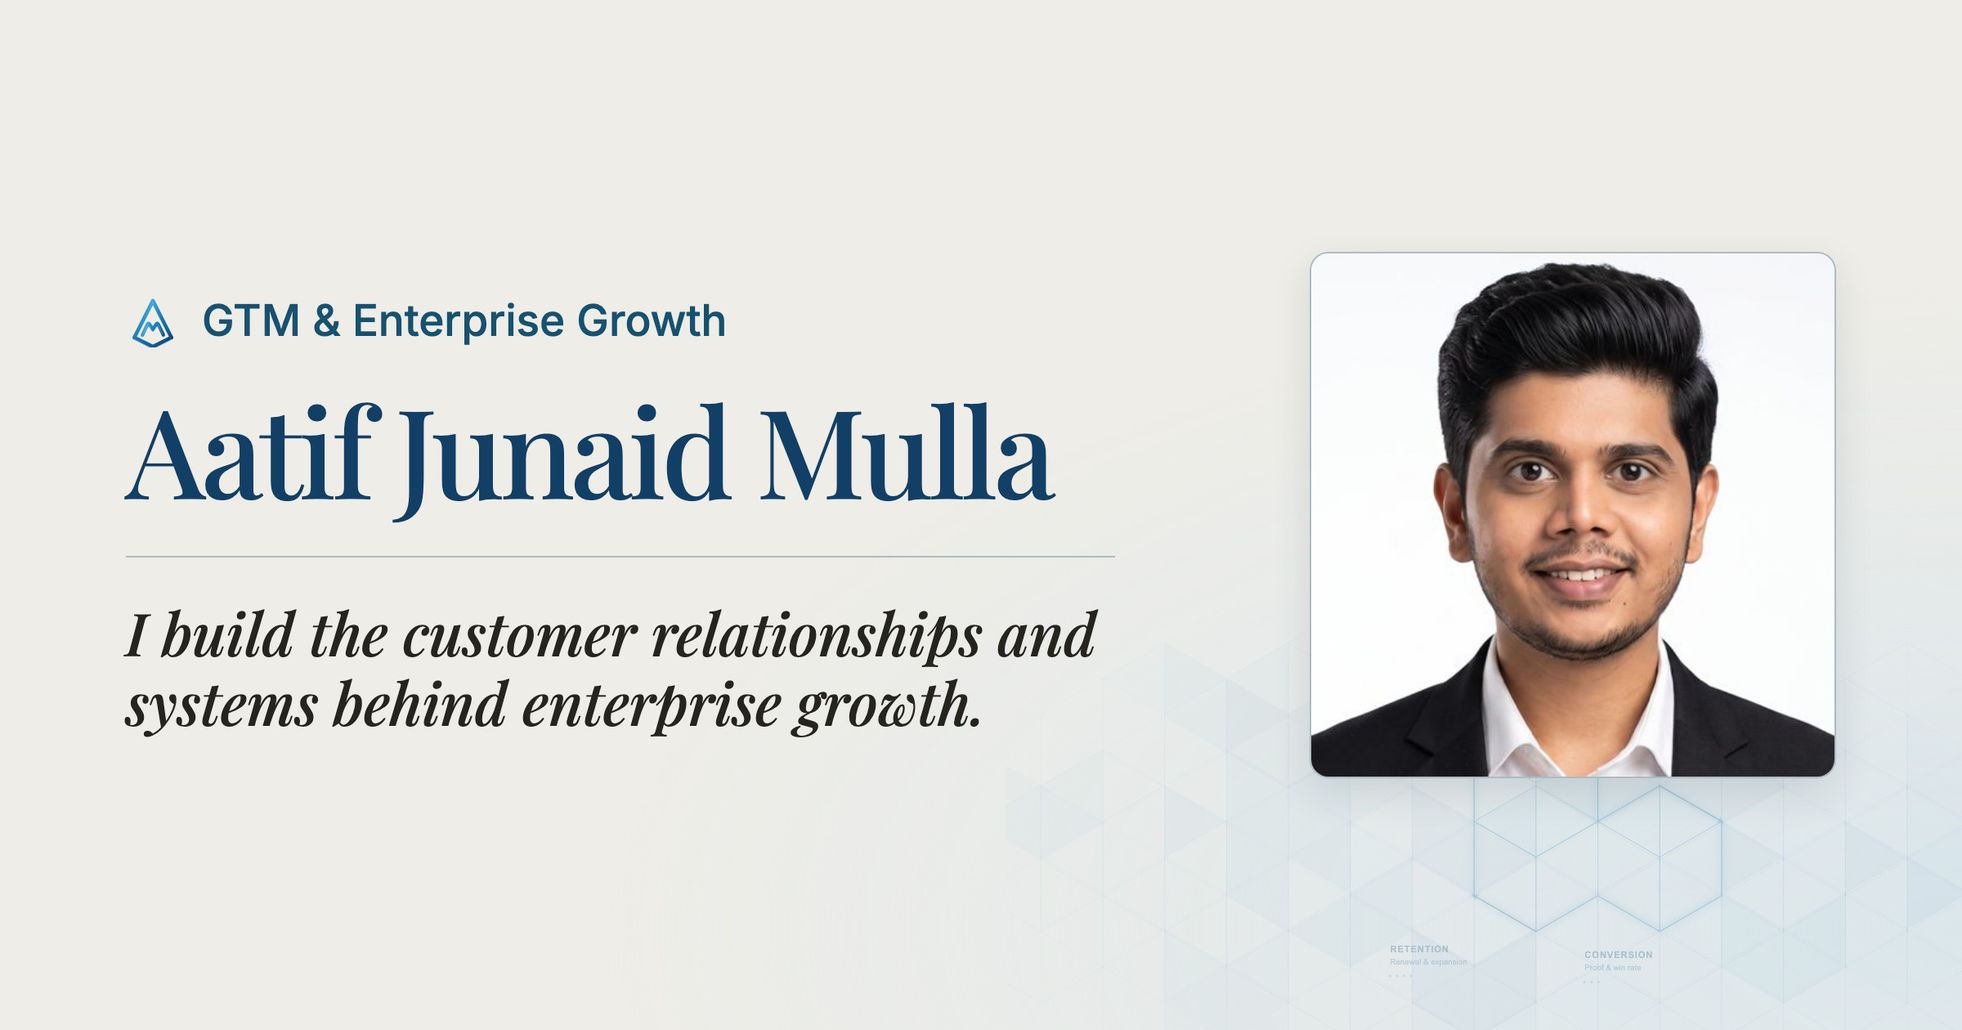
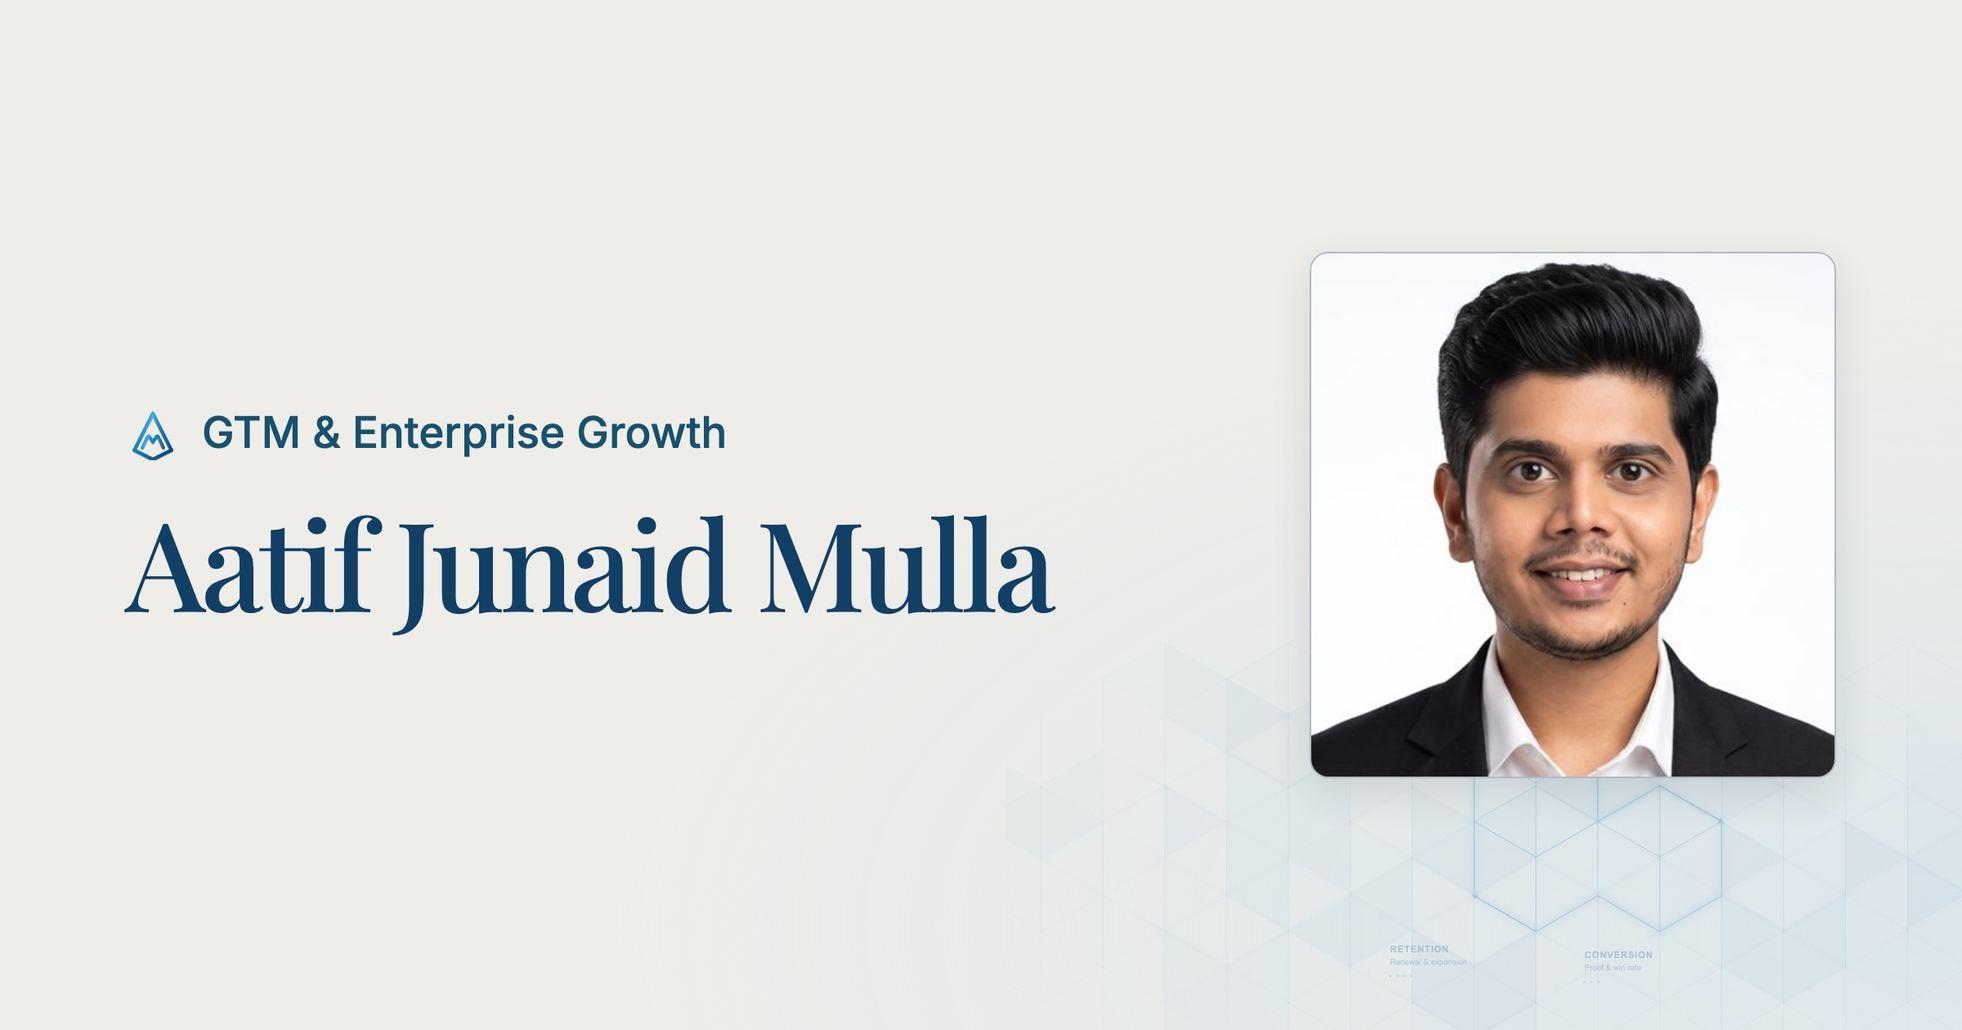
Shorten the homepage introduction (#195)

Changed region(s): [[0.0625, 0.3714, 0.5625, 0.7119], [0.0625, 0.2786, 0.375, 0.3405]]

diff --git a/index.html b/index.html
@@ -11,7 +11,7 @@
   <meta property="og:url" content="https://aatifmulla.me/" />
   <meta property="og:title" content="Aatif Junaid Mulla | GTM, Enterprise Growth &amp; Revenue Operations" />
   <meta property="og:description" content="Enterprise GTM, customer discovery, revenue operations, and AI workflows. Explore Aatif Junaid Mulla&rsquo;s experience and selected work." />
-  <meta property="og:image" content="https://aatifmulla.me/og-image.jpg?v=12" />
+  <meta property="og:image" content="https://aatifmulla.me/og-image.jpg?v=13" />
   <meta property="og:image:type" content="image/jpeg" />
   <meta property="og:image:width" content="2400" />
   <meta property="og:image:height" content="1260" />
@@ -20,7 +20,7 @@
   <meta name="twitter:card" content="summary_large_image" />
   <meta name="twitter:title" content="Aatif Junaid Mulla | GTM, Enterprise Growth &amp; Revenue Operations" />
   <meta name="twitter:description" content="Enterprise GTM, customer discovery, revenue operations, and AI workflows. Explore Aatif Junaid Mulla&rsquo;s experience and selected work." />
-  <meta name="twitter:image" content="https://aatifmulla.me/og-image.jpg?v=12" />
+  <meta name="twitter:image" content="https://aatifmulla.me/og-image.jpg?v=13" />
 
   <meta name="theme-color" content="#EEEDE8" />
   <link rel="canonical" href="https://aatifmulla.me/" />
@@ -71,7 +71,7 @@
   <link rel="dns-prefetch" href="https://static.cloudflareinsights.com" />
   <link rel="preload" href="/assets/fonts/inter.woff2" as="font" type="font/woff2" crossorigin />
   <link rel="preload" href="/assets/fonts/playfair.woff2" as="font" type="font/woff2" crossorigin />
-  <link rel="stylesheet" href="assets/css/site.css?v=108" />
+  <link rel="stylesheet" href="assets/css/site.css?v=109" />
   <!-- Without JS the reveal observer never runs, so make sure nothing stays invisible. -->
   <noscript><style>.reveal { opacity: 1 !important; transform: none !important; }</style></noscript>
   <!-- Google Preferred Sources: renders the "add as preferred source" button in the footer. -->
@@ -106,16 +106,14 @@
   <main id="top" tabindex="-1">
 
     <section class="hero hero--profile" aria-labelledby="hero-headline">
-      <div class="hero__identity">
-        <p class="hero__person" id="hero-name">Aatif Junaid Mulla</p>
+      <div class="hero__identity" id="hero-name">
+        <h1 class="hero__headline" id="hero-headline">Aatif Junaid Mulla</h1>
         <p class="hero__label">GTM &amp; Enterprise Growth</p>
       </div>
       <div class="hero__comet-start" aria-hidden="true"></div>
 
       <div class="hero__copy">
-        <h1 class="hero__headline" id="hero-headline">I build the customer relationships and systems behind enterprise growth.</h1>
-        <p class="hero__summary">My experience spans enterprise technology sales, revenue operations, and building a US enterprise GTM motion. I work across customer discovery, pipeline development, and the workflows that keep opportunities moving.</p>
-        <p class="hero__proof-line">Co-built a 13-member design partner program and helped land the first signed enterprise deal with Splunk, a Cisco company, alongside the founder.</p>
+        <p class="hero__proof-line">Co-built a 13-member design partner program and helped the founder land Aisepedia&rsquo;s first enterprise deal with Splunk.</p>
         <div class="hero__actions">
           <div class="hero__profile-links">
             <a class="btn btn--hero-profile btn--primary" href="#more">Explore my work</a>

diff --git a/gtm-systems.html b/gtm-systems.html
@@ -11,7 +11,7 @@
   <meta property="og:url" content="https://aatifmulla.me/gtm-systems.html" />
   <meta property="og:title" content="GTM Workflows: Research, Drafting and Human Review | Aatif Junaid Mulla" />
   <meta property="og:description" content="Explore an n8n portfolio demonstration for market research, Claude drafting, and human review, plus separate lifecycle work at Aiseberg." />
-  <meta property="og:image" content="https://aatifmulla.me/og-image.jpg?v=12" />
+  <meta property="og:image" content="https://aatifmulla.me/og-image.jpg?v=13" />
   <meta property="og:image:type" content="image/jpeg" />
   <meta property="og:image:width" content="2400" />
   <meta property="og:image:height" content="1260" />
@@ -20,7 +20,7 @@
   <meta name="twitter:card" content="summary_large_image" />
   <meta name="twitter:title" content="GTM Workflows: Research, Drafting and Human Review | Aatif Junaid Mulla" />
   <meta name="twitter:description" content="Explore an n8n portfolio demonstration for market research, Claude drafting, and human review, plus separate lifecycle work at Aiseberg." />
-  <meta name="twitter:image" content="https://aatifmulla.me/og-image.jpg?v=12" />
+  <meta name="twitter:image" content="https://aatifmulla.me/og-image.jpg?v=13" />
 
   <meta name="theme-color" content="#EEEDE8" />
   <link rel="canonical" href="https://aatifmulla.me/gtm-systems.html" />
@@ -33,7 +33,7 @@
   <link rel="apple-touch-icon" sizes="180x180" href="/apple-touch-icon.png?v=4" />
   <link rel="preload" href="/assets/fonts/inter.woff2" as="font" type="font/woff2" crossorigin />
   <link rel="preload" href="/assets/fonts/playfair.woff2" as="font" type="font/woff2" crossorigin />
-  <link rel="stylesheet" href="assets/css/site.css?v=108" />
+  <link rel="stylesheet" href="assets/css/site.css?v=109" />
 
   <!-- Structured data: a public article authored by the same Person entity -->
   <script type="application/ld+json">
@@ -44,7 +44,7 @@
     "url": "https://aatifmulla.me/gtm-systems.html",
     "datePublished": "2026-09-01T09:00:00-07:00",
     "dateModified": "2026-11-21T14:11:53+00:00",
-    "image": "https://aatifmulla.me/og-image.jpg?v=12",
+    "image": "https://aatifmulla.me/og-image.jpg?v=13",
     "author": {
       "@type": "Person",
       "@id": "https://aatifmulla.me/#person",

diff --git a/field-program.html b/field-program.html
@@ -11,7 +11,7 @@
   <meta property="og:url" content="https://aatifmulla.me/field-program.html" />
   <meta property="og:title" content="Building an Enterprise Field Program in San Francisco | Aatif Junaid Mulla" />
   <meta property="og:description" content="How Aatif Junaid Mulla organized PMM 2.0, a San Francisco field program that drew 36 senior practitioners without paid promotion." />
-  <meta property="og:image" content="https://aatifmulla.me/og-image.jpg?v=12" />
+  <meta property="og:image" content="https://aatifmulla.me/og-image.jpg?v=13" />
   <meta property="og:image:type" content="image/jpeg" />
   <meta property="og:image:width" content="2400" />
   <meta property="og:image:height" content="1260" />
@@ -20,7 +20,7 @@
   <meta name="twitter:card" content="summary_large_image" />
   <meta name="twitter:title" content="Building an Enterprise Field Program in San Francisco | Aatif Junaid Mulla" />
   <meta name="twitter:description" content="How Aatif Junaid Mulla organized PMM 2.0, a San Francisco field program that drew 36 senior practitioners without paid promotion." />
-  <meta name="twitter:image" content="https://aatifmulla.me/og-image.jpg?v=12" />
+  <meta name="twitter:image" content="https://aatifmulla.me/og-image.jpg?v=13" />
 
   <meta name="theme-color" content="#EEEDE8" />
   <link rel="canonical" href="https://aatifmulla.me/field-program.html" />
@@ -33,7 +33,7 @@
   <link rel="apple-touch-icon" sizes="180x180" href="/apple-touch-icon.png?v=4" />
   <link rel="preload" href="/assets/fonts/inter.woff2" as="font" type="font/woff2" crossorigin />
   <link rel="preload" href="/assets/fonts/playfair.woff2" as="font" type="font/woff2" crossorigin />
-  <link rel="stylesheet" href="assets/css/site.css?v=108" />
+  <link rel="stylesheet" href="assets/css/site.css?v=109" />
 
   <!-- Structured data: an article authored by the same Person entity -->
   <script type="application/ld+json">
@@ -44,7 +44,7 @@
     "url": "https://aatifmulla.me/field-program.html",
     "datePublished": "2026-08-20T23:40:15-07:00",
     "dateModified": "2026-11-21T14:11:53+00:00",
-    "image": "https://aatifmulla.me/og-image.jpg?v=12",
+    "image": "https://aatifmulla.me/og-image.jpg?v=13",
     "author": {
       "@type": "Person",
       "@id": "https://aatifmulla.me/#person",

diff --git a/playbook.html b/playbook.html
@@ -11,7 +11,7 @@
   <meta property="og:url" content="https://aatifmulla.me/playbook.html" />
   <meta property="og:title" content="Enterprise GTM: Selected Work | Aatif Junaid Mulla" />
   <meta property="og:description" content="Five case studies in enterprise GTM, customer discovery, lifecycle work, and revenue operations by Aatif Junaid Mulla." />
-  <meta property="og:image" content="https://aatifmulla.me/og-image.jpg?v=12" />
+  <meta property="og:image" content="https://aatifmulla.me/og-image.jpg?v=13" />
   <meta property="og:image:type" content="image/jpeg" />
   <meta property="og:image:width" content="2400" />
   <meta property="og:image:height" content="1260" />
@@ -20,7 +20,7 @@
   <meta name="twitter:card" content="summary_large_image" />
   <meta name="twitter:title" content="Enterprise GTM: Selected Work | Aatif Junaid Mulla" />
   <meta name="twitter:description" content="Five case studies in enterprise GTM, customer discovery, lifecycle work, and revenue operations by Aatif Junaid Mulla." />
-  <meta name="twitter:image" content="https://aatifmulla.me/og-image.jpg?v=12" />
+  <meta name="twitter:image" content="https://aatifmulla.me/og-image.jpg?v=13" />
 
   <meta name="theme-color" content="#EEEDE8" />
   <link rel="canonical" href="https://aatifmulla.me/playbook.html" />
@@ -33,7 +33,7 @@
   <link rel="apple-touch-icon" sizes="180x180" href="/apple-touch-icon.png?v=4" />
   <link rel="preload" href="/assets/fonts/inter.woff2" as="font" type="font/woff2" crossorigin />
   <link rel="preload" href="/assets/fonts/playfair.woff2" as="font" type="font/woff2" crossorigin />
-  <link rel="stylesheet" href="assets/css/site.css?v=108" />
+  <link rel="stylesheet" href="assets/css/site.css?v=109" />
 
   <!-- Structured data: ties this page back to the same Person entity -->
   <script type="application/ld+json">

diff --git a/privacy.html b/privacy.html
@@ -12,7 +12,7 @@
   <meta property="og:url" content="https://aatifmulla.me/privacy.html" />
   <meta property="og:title" content="Privacy policy | Aatif Junaid Mulla" />
   <meta property="og:description" content="How Aatif Junaid Mulla's personal portfolio handles hosting information, contact messages, and analytics." />
-  <meta property="og:image" content="https://aatifmulla.me/og-image.jpg?v=12" />
+  <meta property="og:image" content="https://aatifmulla.me/og-image.jpg?v=13" />
   <meta property="og:image:type" content="image/jpeg" />
   <meta property="og:image:width" content="2400" />
   <meta property="og:image:height" content="1260" />
@@ -21,7 +21,7 @@
   <meta name="twitter:card" content="summary_large_image" />
   <meta name="twitter:title" content="Privacy policy | Aatif Junaid Mulla" />
   <meta name="twitter:description" content="How Aatif Junaid Mulla's personal portfolio handles hosting information, contact messages, and analytics." />
-  <meta name="twitter:image" content="https://aatifmulla.me/og-image.jpg?v=12" />
+  <meta name="twitter:image" content="https://aatifmulla.me/og-image.jpg?v=13" />
   <meta name="theme-color" content="#EEEDE8" />
   <link rel="canonical" href="https://aatifmulla.me/privacy.html" />
   <meta name="referrer" content="strict-origin-when-cross-origin" />
@@ -33,7 +33,7 @@
   <link rel="apple-touch-icon" sizes="180x180" href="/apple-touch-icon.png?v=4" />
   <link rel="preload" href="/assets/fonts/inter.woff2" as="font" type="font/woff2" crossorigin />
   <link rel="preload" href="/assets/fonts/playfair.woff2" as="font" type="font/woff2" crossorigin />
-  <link rel="stylesheet" href="/assets/css/site.css?v=108" />
+  <link rel="stylesheet" href="/assets/css/site.css?v=109" />
 </head>
 <body>
   <a class="skip-link" href="#top">Skip to content</a>

diff --git a/accessibility.html b/accessibility.html
@@ -12,7 +12,7 @@
   <meta property="og:url" content="https://aatifmulla.me/accessibility.html" />
   <meta property="og:title" content="Accessibility | Aatif Junaid Mulla" />
   <meta property="og:description" content="Accessibility features and feedback for Aatif Junaid Mulla's personal portfolio." />
-  <meta property="og:image" content="https://aatifmulla.me/og-image.jpg?v=12" />
+  <meta property="og:image" content="https://aatifmulla.me/og-image.jpg?v=13" />
   <meta property="og:image:type" content="image/jpeg" />
   <meta property="og:image:width" content="2400" />
   <meta property="og:image:height" content="1260" />
@@ -21,7 +21,7 @@
   <meta name="twitter:card" content="summary_large_image" />
   <meta name="twitter:title" content="Accessibility | Aatif Junaid Mulla" />
   <meta name="twitter:description" content="Accessibility features and feedback for Aatif Junaid Mulla's personal portfolio." />
-  <meta name="twitter:image" content="https://aatifmulla.me/og-image.jpg?v=12" />
+  <meta name="twitter:image" content="https://aatifmulla.me/og-image.jpg?v=13" />
   <meta name="theme-color" content="#EEEDE8" />
   <link rel="canonical" href="https://aatifmulla.me/accessibility.html" />
   <meta name="referrer" content="strict-origin-when-cross-origin" />
@@ -33,7 +33,7 @@
   <link rel="apple-touch-icon" sizes="180x180" href="/apple-touch-icon.png?v=4" />
   <link rel="preload" href="/assets/fonts/inter.woff2" as="font" type="font/woff2" crossorigin />
   <link rel="preload" href="/assets/fonts/playfair.woff2" as="font" type="font/woff2" crossorigin />
-  <link rel="stylesheet" href="/assets/css/site.css?v=108" />
+  <link rel="stylesheet" href="/assets/css/site.css?v=109" />
 </head>
 <body>
   <a class="skip-link" href="#top">Skip to content</a>

diff --git a/assets/css/site.css b/assets/css/site.css
@@ -1520,7 +1520,7 @@ a.tool-chip:hover { border-color: var(--blue); color: var(--blue-deep); }
 /* Homepage introduction */
 .hero--profile {
   max-width: var(--maxw);
-  min-height: min(64svh, 40rem);
+  min-height: min(51svh, 31rem);
   grid-template-columns: minmax(0, 1fr) clamp(12rem, 24vw, 21rem);
   gap: var(--space-6) clamp(1.5rem, 5vw, 4.5rem);
   padding: clamp(2.5rem, 5vw, 4.5rem) var(--gutter) var(--space-8);
@@ -1534,13 +1534,6 @@ a.tool-chip:hover { border-color: var(--blue); color: var(--blue-deep); }
   height: 0;
 }
 .hero--profile > .hero__geometry { opacity: 0.85; }
-.hero__person {
-  color: var(--blue-deep);
-  font-family: var(--serif);
-  font-size: var(--text-24);
-  font-weight: 500;
-  line-height: 1.2;
-}
 .hero__label { margin-top: 0.35rem; color: var(--ink-soft); font-weight: 500; }
 .hero__headline {
   max-width: 24ch;
@@ -1552,9 +1545,7 @@ a.tool-chip:hover { border-color: var(--blue); color: var(--blue-deep); }
   line-height: 1.08;
   text-wrap: balance;
 }
-.hero__summary, .hero__proof-line { max-width: 56ch; margin-top: var(--space-4); }
-.hero__summary { color: var(--ink-soft); font-size: var(--text-18); }
-.hero__proof-line { color: var(--blue-deep); font-weight: 500; }
+.hero__proof-line { max-width: 56ch; color: var(--blue-deep); font-weight: 500; }
 .hero--profile .hero__actions { margin-top: var(--space-6); }
 
 .selected-work { position: relative; z-index: 1; padding-top: var(--space-8); }
@@ -1590,6 +1581,5 @@ a.tool-chip:hover { border-color: var(--blue); color: var(--blue-deep); }
     inset-inline-end: calc(var(--gutter) + 1.625rem);
   }
   .hero__headline { font-size: clamp(2rem, 7.5vw, 2.625rem); }
-  .hero__summary { font-size: var(--text-16); }
   .selected-work__grid { grid-template-columns: 1fr; }
 }

diff --git a/terms.html b/terms.html
@@ -12,7 +12,7 @@
   <meta property="og:url" content="https://aatifmulla.me/terms.html" />
   <meta property="og:title" content="Terms and conditions | Aatif Junaid Mulla" />
   <meta property="og:description" content="Terms for using Aatif Junaid Mulla's personal portfolio and its material." />
-  <meta property="og:image" content="https://aatifmulla.me/og-image.jpg?v=12" />
+  <meta property="og:image" content="https://aatifmulla.me/og-image.jpg?v=13" />
   <meta property="og:image:type" content="image/jpeg" />
   <meta property="og:image:width" content="2400" />
   <meta property="og:image:height" content="1260" />
@@ -21,7 +21,7 @@
   <meta name="twitter:card" content="summary_large_image" />
   <meta name="twitter:title" content="Terms and conditions | Aatif Junaid Mulla" />
   <meta name="twitter:description" content="Terms for using Aatif Junaid Mulla's personal portfolio and its material." />
-  <meta name="twitter:image" content="https://aatifmulla.me/og-image.jpg?v=12" />
+  <meta name="twitter:image" content="https://aatifmulla.me/og-image.jpg?v=13" />
   <meta name="theme-color" content="#EEEDE8" />
   <link rel="canonical" href="https://aatifmulla.me/terms.html" />
   <meta name="referrer" content="strict-origin-when-cross-origin" />
@@ -33,7 +33,7 @@
   <link rel="apple-touch-icon" sizes="180x180" href="/apple-touch-icon.png?v=4" />
   <link rel="preload" href="/assets/fonts/inter.woff2" as="font" type="font/woff2" crossorigin />
   <link rel="preload" href="/assets/fonts/playfair.woff2" as="font" type="font/woff2" crossorigin />
-  <link rel="stylesheet" href="/assets/css/site.css?v=108" />
+  <link rel="stylesheet" href="/assets/css/site.css?v=109" />
 </head>
 <body>
   <a class="skip-link" href="#top">Skip to content</a>

diff --git a/404.html b/404.html
@@ -11,7 +11,7 @@
   <meta property="og:url" content="https://aatifmulla.me/404.html" />
   <meta property="og:title" content="Page Not Found | Aatif Junaid Mulla" />
   <meta property="og:description" content="This page does not exist. Return to Aatif Junaid Mulla's GTM portfolio." />
-  <meta property="og:image" content="https://aatifmulla.me/og-image.jpg?v=12" />
+  <meta property="og:image" content="https://aatifmulla.me/og-image.jpg?v=13" />
   <meta property="og:image:type" content="image/jpeg" />
   <meta property="og:image:width" content="2400" />
   <meta property="og:image:height" content="1260" />
@@ -20,7 +20,7 @@
   <meta name="twitter:card" content="summary_large_image" />
   <meta name="twitter:title" content="Page Not Found | Aatif Junaid Mulla" />
   <meta name="twitter:description" content="This page does not exist. Return to Aatif Junaid Mulla's GTM portfolio." />
-  <meta name="twitter:image" content="https://aatifmulla.me/og-image.jpg?v=12" />
+  <meta name="twitter:image" content="https://aatifmulla.me/og-image.jpg?v=13" />
 
   <meta name="theme-color" content="#EEEDE8" />
   <meta name="referrer" content="strict-origin-when-cross-origin" />
@@ -32,7 +32,7 @@
   <link rel="apple-touch-icon" sizes="180x180" href="/apple-touch-icon.png?v=4" />
   <link rel="preload" href="/assets/fonts/inter.woff2" as="font" type="font/woff2" crossorigin />
   <link rel="preload" href="/assets/fonts/playfair.woff2" as="font" type="font/woff2" crossorigin />
-  <link rel="stylesheet" href="/assets/css/site.css?v=108" />
+  <link rel="stylesheet" href="/assets/css/site.css?v=109" />
   <link rel="canonical" href="https://aatifmulla.me/404.html" />
 </head>
 <body>

diff --git a/DESIGN.md b/DESIGN.md
@@ -121,11 +121,11 @@ Every visible change must be checked near 1440px and 375px before deployment.
 
 Every page uses the self-hosted Inter and Playfair Display fonts and the warm paper and blue tokens in `assets/css/site.css`. These rules describe the current homepage and take precedence over the earlier notes below.
 
-- The homepage pairs the animated comet with a GTM & Enterprise Growth headline, a supporting paragraph, one proof line, and two actions: Explore my work and View résumé.
+- The homepage pairs the animated comet with Aatif's name, the GTM & Enterprise Growth label, one proof line, and two actions: Explore my work and View résumé.
 - Three selected case studies precede the career timeline: the first enterprise agreement, subscription revenue analysis, and a GTM workflow demonstration with human review.
 - The comet opens on the right of the hero and follows the scroll into Experience. At compact widths it follows the outer gutter. Reduced-motion settings suppress the comet. The approach and toolkit follow Experience, above Education and Contact.
 - Design partner quotes appear in the relevant case study as attributed product feedback. The PMM 2.0 stage photo sits below the introduction to the field program write-up.
-- The share image uses the professional portrait and the homepage's name, public positioning, and headline.
+- The share image uses the professional portrait, name, and GTM & Enterprise Growth label.
 
 ## The premium pass, 2026-09-16
 

diff --git a/CHANGELOG.md b/CHANGELOG.md
@@ -17,6 +17,7 @@ All notable user-facing and repository-maintenance changes are recorded here. Th
 
 ### Changed
 
+- Shorten the homepage introduction to the name, role label, and one proof line. Simplify the share card to match (`site.css?v=109`, `og-image.jpg?v=13`).
 - Show the scroll-following comet in compact windows and keep its starting point in view on short screens. Apply changes to reduced-motion preferences while the page is open (`site.css?v=108`, `homepage.js?v=28`).
 - Refocus the portfolio on enterprise GTM and revenue operations. Put three cases ahead of Experience and bring the scroll-following comet into the homepage hero. Reorder and correct the case studies, and separate the public n8n demo from Aiseberg lifecycle work. Refresh the share card, metadata, and public résumé (`og-image.jpg?v=12`, `site.css?v=107`, `homepage.js?v=27`, `resume.pdf?v=2026-11b`).
 - Return to the editorial design across the site with warm paper, Playfair and Inter, the hexagon hero, and the comet timeline. Move the PMM 2.0 stage photo into the field program write-up. Add a direct route from the hero to Selected work and retain the standalone testimonials and current GTM content (`site.css?v=105`).
